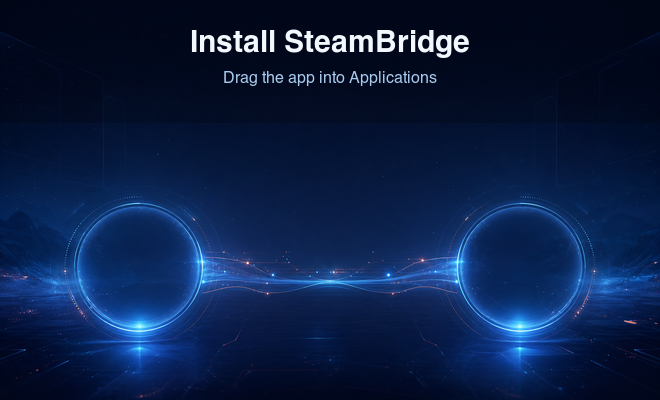
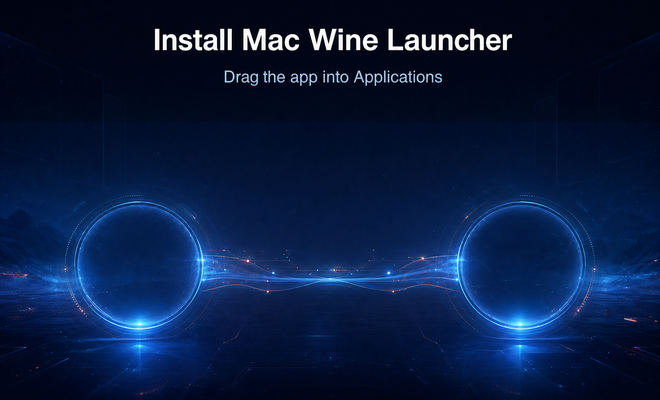
Remove obsolete product identity references

diff --git a/Tests/MacWineLauncherTests/CompatibilityTests.swift b/Tests/MacWineLauncherTests/CompatibilityTests.swift
@@ -3,11 +3,6 @@ import Foundation
 import Testing
 @testable import MacWineLauncher
 
-@Test func legacyEngineNameMigrates() throws {
-    let data = Data(#""SteamBridge Wine""#.utf8)
-    #expect(try JSONDecoder().decode(EngineKind.self, from: data) == .managedWine)
-}
-
 @Test func antiCheatIsBlocked() {
     let result = GameCompatibility.assess(title: "Example", notes: "Uses Easy Anti-Cheat")
     #expect(result.rating == .blocked)
@@ -508,26 +503,6 @@ private func peStub(machine: UInt16, marker: UInt8 = 0) -> Data {
     let created = try first.create(name: "Test", engine: .wine)
     let second = BottleStore(rootURL: root)
     #expect(second.bottles == [created])
-}
-
-@Test @MainActor func legacyApplicationSupportDataMigratesWithoutLosingBottles() throws {
-    let support = FileManager.default.temporaryDirectory.appending(path: UUID().uuidString)
-    defer { try? FileManager.default.removeItem(at: support) }
-    let legacyRoot = support.appending(path: "SteamBridge", directoryHint: .isDirectory)
-    let legacyBottle = legacyRoot.appending(path: "Bottles/Windows Steam")
-    try FileManager.default.createDirectory(at: legacyBottle, withIntermediateDirectories: true)
-
-    let bottle = Bottle(name: "Windows Steam", path: legacyBottle.path, engine: .managedWine)
-    let encoder = JSONEncoder()
-    try encoder.encode([bottle]).write(to: legacyRoot.appending(path: "bottles.json"))
-
-    let store = BottleStore(applicationSupportURL: support)
-    let currentRoot = support.appending(path: "Mac Wine Launcher", directoryHint: .isDirectory)
-
-    #expect(!FileManager.default.fileExists(atPath: legacyRoot.path))
-    #expect(FileManager.default.fileExists(atPath: currentRoot.path))
-    #expect(store.bottles.count == 1)
-    #expect(store.bottles[0].path == currentRoot.appending(path: "Bottles/Windows Steam").path)
 }
 
 @Test @MainActor func bottleStoreUninstallsBottleData() async throws {

diff --git a/Sources/MacWineLauncher/BottleStore.swift b/Sources/MacWineLauncher/BottleStore.swift
@@ -15,20 +15,12 @@ final class BottleStore: ObservableObject {
         applicationSupportURL: URL? = nil
     ) {
         self.fileManager = fileManager
-        let usesManagedRoot = rootURL == nil
         self.rootURL = rootURL ?? AppDataPaths.supportRoot(
             fileManager: fileManager,
             supportDirectory: applicationSupportURL
         )
         manifestURL = self.rootURL.appending(path: "bottles.json")
-        load(
-            migratingFrom: usesManagedRoot
-                ? AppDataPaths.legacySupportRoot(
-                    fileManager: fileManager,
-                    supportDirectory: applicationSupportURL
-                )
-                : nil
-        )
+        load()
     }
 
     func create(name: String, engine: EngineKind) throws -> Bottle {
@@ -57,25 +49,10 @@ final class BottleStore: ObservableObject {
         try save()
     }
 
-    private func load(migratingFrom legacyRoot: URL?) {
+    private func load() {
         guard let data = try? Data(contentsOf: manifestURL),
               let decoded = try? JSONDecoder().decode([Bottle].self, from: data) else { return }
-        guard let legacyRoot else {
-            bottles = decoded
-            return
-        }
-
-        let legacyPrefix = legacyRoot.standardizedFileURL.path + "/"
-        let currentPrefix = rootURL.standardizedFileURL.path + "/"
-        bottles = decoded.map { bottle in
-            guard bottle.path.hasPrefix(legacyPrefix) else { return bottle }
-            var migrated = bottle
-            migrated.path = currentPrefix + bottle.path.dropFirst(legacyPrefix.count)
-            return migrated
-        }
-        if bottles != decoded {
-            try? save()
-        }
+        bottles = decoded
     }
 
     private func save() throws {

diff --git a/Sources/MacWineLauncher/AppDataPaths.swift b/Sources/MacWineLauncher/AppDataPaths.swift
@@ -2,7 +2,6 @@ import Foundation
 
 enum AppDataPaths {
     static let currentFolderName = "Mac Wine Launcher"
-    static let legacyFolderName = "SteamBridge"
 
     static func supportRoot(
         fileManager: FileManager = .default,
@@ -12,37 +11,9 @@ enum AppDataPaths {
             for: .applicationSupportDirectory,
             in: .userDomainMask
         )[0]
-        let current = support.appending(
+        return support.appending(
             path: currentFolderName,
             directoryHint: .isDirectory
         )
-        let legacy = support.appending(
-            path: legacyFolderName,
-            directoryHint: .isDirectory
-        )
-
-        guard !fileManager.fileExists(atPath: current.path),
-              fileManager.fileExists(atPath: legacy.path) else {
-            return current
-        }
-
-        do {
-            try fileManager.moveItem(at: legacy, to: current)
-            return current
-        } catch {
-            // Another startup may have completed the migration first.
-            return fileManager.fileExists(atPath: current.path) ? current : legacy
-        }
-    }
-
-    static func legacySupportRoot(
-        fileManager: FileManager = .default,
-        supportDirectory: URL? = nil
-    ) -> URL {
-        let support = supportDirectory ?? fileManager.urls(
-            for: .applicationSupportDirectory,
-            in: .userDomainMask
-        )[0]
-        return support.appending(path: legacyFolderName, directoryHint: .isDirectory)
     }
 }

diff --git a/Sources/MacWineLauncher/RuntimeInstaller.swift b/Sources/MacWineLauncher/RuntimeInstaller.swift
@@ -5,7 +5,6 @@ enum RuntimeInstaller {
     static let currentVersion = "WS12WineSikarugir10.0_6+Template-1.0.11+WineICU-72.1"
     static let runtimeFolderName = "Sikarugir"
     static let versionFileName = ".mac-wine-launcher-runtime-version"
-    static let legacyVersionFileName = ".steambridge-runtime-version"
     static let wineICUVersion = "72.1"
     static let wineICUFolderName = "WineICU"
 
@@ -174,13 +173,11 @@ enum RuntimeInstaller {
               isWineICUInstalled(at: root, fileManager: fileManager) else {
             return false
         }
-        return [versionFileName, legacyVersionFileName].contains { fileName in
-            guard let value = try? String(
-                contentsOf: root.appending(path: fileName),
-                encoding: .utf8
-            ) else { return false }
-            return value.trimmingCharacters(in: .whitespacesAndNewlines) == currentVersion
-        }
+        guard let value = try? String(
+            contentsOf: root.appending(path: versionFileName),
+            encoding: .utf8
+        ) else { return false }
+        return value.trimmingCharacters(in: .whitespacesAndNewlines) == currentVersion
     }
 
     static func isCurrentRuntime(_ engine: Engine, fileManager: FileManager = .default) -> Bool {

diff --git a/Sources/MacWineLauncher/Models.swift b/Sources/MacWineLauncher/Models.swift
@@ -25,27 +25,6 @@ enum EngineKind: String, Codable, CaseIterable, Identifiable, Sendable {
         case .whisky: "Unmaintained"
         }
     }
-
-    init(from decoder: Decoder) throws {
-        let container = try decoder.singleValueContainer()
-        let value = try container.decode(String.self)
-        if value == "SteamBridge Wine" {
-            self = .managedWine
-            return
-        }
-        guard let kind = Self(rawValue: value) else {
-            throw DecodingError.dataCorruptedError(
-                in: container,
-                debugDescription: "Unknown compatibility engine: \(value)"
-            )
-        }
-        self = kind
-    }
-
-    func encode(to encoder: Encoder) throws {
-        var container = encoder.singleValueContainer()
-        try container.encode(rawValue)
-    }
 }
 
 struct Engine: Identifiable, Hashable, Sendable {

diff --git a/CHANGELOG.md b/CHANGELOG.md
@@ -4,47 +4,19 @@ All notable changes to Mac Wine Launcher are recorded here.
 
 ## [Unreleased]
 
+## [0.6.1] - 2026-08-02
+
+- Completed a full product-identity audit across source, runtime metadata, packaging,
+  installer artwork, documentation, website copy, and public release assets.
+- Rebuilt the drag-to-Applications installer artwork with Mac Wine Launcher branding.
+- Removed obsolete compatibility identifiers so new builds and managed data use only
+  Mac Wine Launcher names.
+
 ## [0.6.0] - 2026-08-02
 
-- Renamed SteamBridge to Mac Wine Launcher so its role as an easy macOS Wine wrapper is
-  clear and it no longer conflicts with existing SteamBridge projects.
-- Migrated existing bottles, manifests, and the managed Wine runtime in place.
-- Added compatibility decoding for bottles created under the former engine name.
-- Updated the app bundle, DMG, documentation, repository metadata, and support links.
+- Initial public release of Mac Wine Launcher.
+- Added managed Wine bottles, Windows application launching, Windows Steam installation,
+  DirectX renderer selection, Retina profiles, known-game fixes, and battery-safe shutdown.
 
-## [0.5.5] - 2026-08-01
-
-- Grouped executable-scoped workarounds under a collapsed Known Game Bugs & Fixes area.
-- Kept game-specific details out of normal Steam launch status.
-
-## [0.5.4] - 2026-08-01
-
-- Added automatic managed-bottle shutdown when Mac Wine Launcher quits.
-- Added a visible Stop Steam & Wine action.
-- Added bounded shutdown escalation for orphaned Wine helpers.
-- Protected unrelated native processes with bottle-and-engine process matching.
-
-## [0.5.3] - 2026-07-28
-
-- Made normal Steam launch non-disruptive to other Windows applications.
-- Added Steam UI health reporting.
-- Added a clean built-in window-manager launch path.
-
-## [0.5.2] - 2026-07-28
-
-- Added generic Windows application launching and PyQt6/PySide6 compatibility.
-- Repaired mixed-version Steam installations and inhibited client updates.
-
-## [0.5.1] - 2026-07-26
-
-- Added automatic DirectX renderer selection, Retina profiles, and executable-specific
-  input workarounds.
-- Fixed Steam installation progress and black login windows.
-
-## [0.5.0] - 2026-07-26
-
-- Initial public release under the SteamBridge name.
-
-[Unreleased]: https://github.com/MrBurge2000/mac-wine-launcher/compare/v0.6.0...HEAD
-[0.6.0]: https://github.com/MrBurge2000/mac-wine-launcher/releases/tag/v0.6.0
-[0.5.5]: https://github.com/MrBurge2000/mac-wine-launcher/releases/tag/v0.5.5
+[Unreleased]: https://github.com/MrBurge2000/mac-wine-launcher/compare/v0.6.1...HEAD
+[0.6.1]: https://github.com/MrBurge2000/mac-wine-launcher/releases/tag/v0.6.1

diff --git a/README.md b/README.md
@@ -14,9 +14,6 @@ No CrossOver subscription is required.
 [Visit the official website](https://mac-wine-launcher.angelo01px2028.chatgpt.site) for a quick overview,
 compatibility notes, and the latest verified download.
 
-This project was formerly called SteamBridge. The new name makes its purpose clear and
-avoids confusion with unrelated projects that already use that name.
-
 ## Download
 
 Download the current DMG or universal ZIP from [GitHub Releases](https://github.com/MrBurge2000/mac-wine-launcher/releases/latest).
